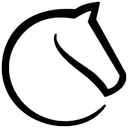
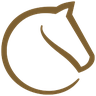
Draw the platform mark as an image instead of a CSS mask
Mask images are unreliable in mobile Safari and the mark vanished on the
phone. The logo is now a plain img with the brass baked into the file,
which every browser draws the same way, and it is inlined into the
preview build alongside the other images.

Claude-Session: https://claude.ai/code/session_01MuJK99pwXEwfxiADeiGDW4

Changed region(s): [[0.0, 0.0, 1.0, 1.0]]

diff --git a/index.html b/index.html
@@ -283,17 +283,11 @@ a:focus-visible,button:focus-visible,input:focus-visible,textarea:focus-visible{
   font-size:clamp(28px,3.6vw,38px);line-height:1.05;letter-spacing:-.02em;
 }
 .creds-value.is-word{font-size:clamp(21px,2.4vw,26px);letter-spacing:-.01em}
-/* знак площадки: картинка используется маской, поэтому красится в цвет палитры */
+/* знак площадки рядом с цифрой рейтинга. Цвет зашит в сам файл:
+   CSS-маска надежно работает не во всех мобильных браузерах */
 .creds-mark{
-  display:inline-block;vertical-align:baseline;
-  width:.7em;height:.7em;margin-left:.32em;vertical-align:-.04em;
-  background:var(--accent);
-  /* знак вшит в стиль: как внешний файл маска блокируется правилами CORS.
-     Исходник лежит в images/lichess.png */
[1 lines of base64/hex data omitted]
-  -webkit-mask-repeat:no-repeat;mask-repeat:no-repeat;
-  -webkit-mask-position:center;mask-position:center;
-  -webkit-mask-size:contain;mask-size:contain;
+  display:inline-block;vertical-align:-.06em;
+  width:.7em;height:.7em;margin-left:.32em;
 }
 .creds-label{font-size:12px;letter-spacing:.12em;text-transform:uppercase;color:var(--muted)}
 .about-more{margin-top:clamp(30px,4vw,44px);max-width:64ch;color:var(--muted)}
@@ -556,7 +550,7 @@ a:focus-visible,button:focus-visible,input:focus-visible,textarea:focus-visible{
       </div>
       <ul class="creds">
         <li>
-          <span class="creds-value">2700<span class="creds-mark" role="img" aria-label="Lichess" title="Lichess"></span></span>
+          <span class="creds-value">2700<img class="creds-mark" src="images/lichess.png" width="96" height="96" alt="Lichess" title="Lichess" decoding="async"></span>
           <span class="creds-label">рейтинг, 0.1% мира</span>
         </li>
         <li>
